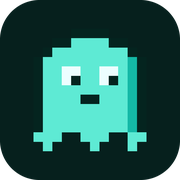
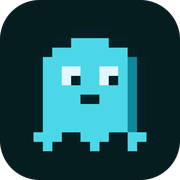
Fix a false edge in the graph, trim the hero kicker, resync brand art
- Graph: the maths–music edge ran 1.5px from the ML node, so it read as
  "music → machine learning" — a link that doesn't exist. Music now sits
  beside maths; verified against the live DOM that no edge passes within
  20px of a node it doesn't connect. Edges annotated with why they exist.
- Hero kicker drops "EN / FR" — the toggle sits right above it.
- Paris moment dated January – May 2026; it was home during the ENSEA
  semester, not a trip, so the blurb and alt text say so.
- Regenerate og.png and the icon set on the new bluer palette; they were
  still carrying the old teal.

Changed region(s): [[0.6944, 0.3056, 0.7778, 0.75]]

diff --git a/app/components/graph.tsx b/app/components/graph.tsx
@@ -12,26 +12,30 @@ type Node = { id: string; x: number; y: number; en: string; fr: string; hub?: bo
 const W = 640;
 const H = 250;
 
+/* Positions are deliberate: every edge has to reach its endpoints without
+   grazing a node it doesn't connect, or the picture implies links that
+   aren't there. (Music sat opposite maths with the line passing 1.5px from
+   the ML node, which read as "music → machine learning".) */
 const NODES: Node[] = [
-  { id: "math", x: 96, y: 62, en: "mathematics", fr: "mathématiques" },
-  { id: "algo", x: 320, y: 40, en: "algorithms", fr: "algorithmes", hub: true },
-  { id: "sys", x: 548, y: 62, en: "systems", fr: "systèmes" },
-  { id: "ml", x: 320, y: 132, en: "machine learning", fr: "apprentissage automatique", hub: true },
-  { id: "phil", x: 96, y: 200, en: "philosophy", fr: "philosophie" },
-  { id: "hist", x: 320, y: 224, en: "history", fr: "histoire" },
-  { id: "music", x: 548, y: 200, en: "music", fr: "musique" },
+  { id: "music", x: 60, y: 132, en: "music", fr: "musique" },
+  { id: "math", x: 186, y: 58, en: "mathematics", fr: "mathématiques" },
+  { id: "algo", x: 352, y: 36, en: "algorithms", fr: "algorithmes", hub: true },
+  { id: "sys", x: 556, y: 58, en: "systems", fr: "systèmes" },
+  { id: "ml", x: 352, y: 140, en: "machine learning", fr: "apprentissage automatique", hub: true },
+  { id: "phil", x: 150, y: 214, en: "philosophy", fr: "philosophie" },
+  { id: "hist", x: 356, y: 232, en: "history", fr: "histoire" },
 ];
 
 const EDGES: [string, string][] = [
+  ["math", "music"], // rhythm, harmony, counting
   ["math", "algo"],
   ["algo", "sys"],
   ["math", "ml"],
   ["algo", "ml"],
   ["sys", "ml"],
-  ["math", "phil"],
+  ["math", "phil"], // logic
+  ["phil", "ml"],   // the ethics essays
   ["phil", "hist"],
-  ["phil", "ml"],
-  ["math", "music"],
   ["hist", "music"],
 ];
 

diff --git a/app/photos/page.tsx b/app/photos/page.tsx
@@ -49,20 +49,20 @@ const moments: Moment[] = [
       "/photos/paris/6-montaigne.jpg",
       "/photos/paris/7-eiffel.jpg",
     ],
-    photoAlt: "Paris, France trip photo",
+    photoAlt: "Paris, France photo",
     aspect: "1/1",
     fit: "contain",
     en: {
       caption: "Paris, France",
-      date: "2026",
+      date: "January – May 2026",
       blurb:
-        "Concorde, the Jardin du Luxembourg, the generals of the Revolution inside the Panthéon, Les Invalides under a pink sky, Sacré-Cœur, and the Eiffel Tower over the Seine at dusk. Somewhere in there: Avenue Montaigne — named for the writer I quote up top.",
+        "Home for five months while I studied at ENSEA. Concorde, the Jardin du Luxembourg, the generals of the Revolution inside the Panthéon, Les Invalides under a pink sky, Sacré-Cœur, and the Eiffel Tower over the Seine at dusk. Somewhere in there: Avenue Montaigne — named for the writer I quote up top.",
     },
     fr: {
       caption: "Paris, France",
-      date: "2026",
+      date: "De janvier à mai 2026",
       blurb:
-        "La Concorde, le jardin du Luxembourg, les généraux de la Révolution au Panthéon, les Invalides sous un ciel rose, le Sacré-Cœur, et la tour Eiffel au-dessus de la Seine au crépuscule. Et quelque part là-dedans : l'avenue Montaigne — du nom de l'écrivain que je cite en haut de la page.",
+        "Cinq mois chez moi, pendant mes études à l'ENSEA. La Concorde, le jardin du Luxembourg, les généraux de la Révolution au Panthéon, les Invalides sous un ciel rose, le Sacré-Cœur, et la tour Eiffel au-dessus de la Seine au crépuscule. Et quelque part là-dedans : l'avenue Montaigne — du nom de l'écrivain que je cite en haut de la page.",
     },
     tags: [
       { key: "france", emoji: "🇫🇷", flag: "france", en: "France", fr: "France" },

diff --git a/app/content.ts b/app/content.ts
@@ -205,7 +205,7 @@ export const research: {
 export const ui = {
   en: {
     nav: { about: "about", experience: "experience", projects: "projects", research: "research", music: "music", resume: "résumé", blog: "blog", photos: "photos" },
-    heroKicker: "Pittsburgh, PA · Pitt '27 · EN / FR",
+    heroKicker: "Pittsburgh, PA · Pitt '27",
     heroRoles: [
       "aspiring AI researcher",
       "data & systems engineer",
@@ -263,7 +263,7 @@ export const ui = {
   },
   fr: {
     nav: { about: "à propos", experience: "expérience", projects: "projets", research: "recherche", music: "musique", resume: "CV", blog: "blog", photos: "photos" },
-    heroKicker: "Pittsburgh, PA · Pitt '27 · EN / FR",
+    heroKicker: "Pittsburgh, PA · Pitt '27",
     heroRoles: [
       "chercheur en IA en devenir",
       "ingénieur données & systèmes",
